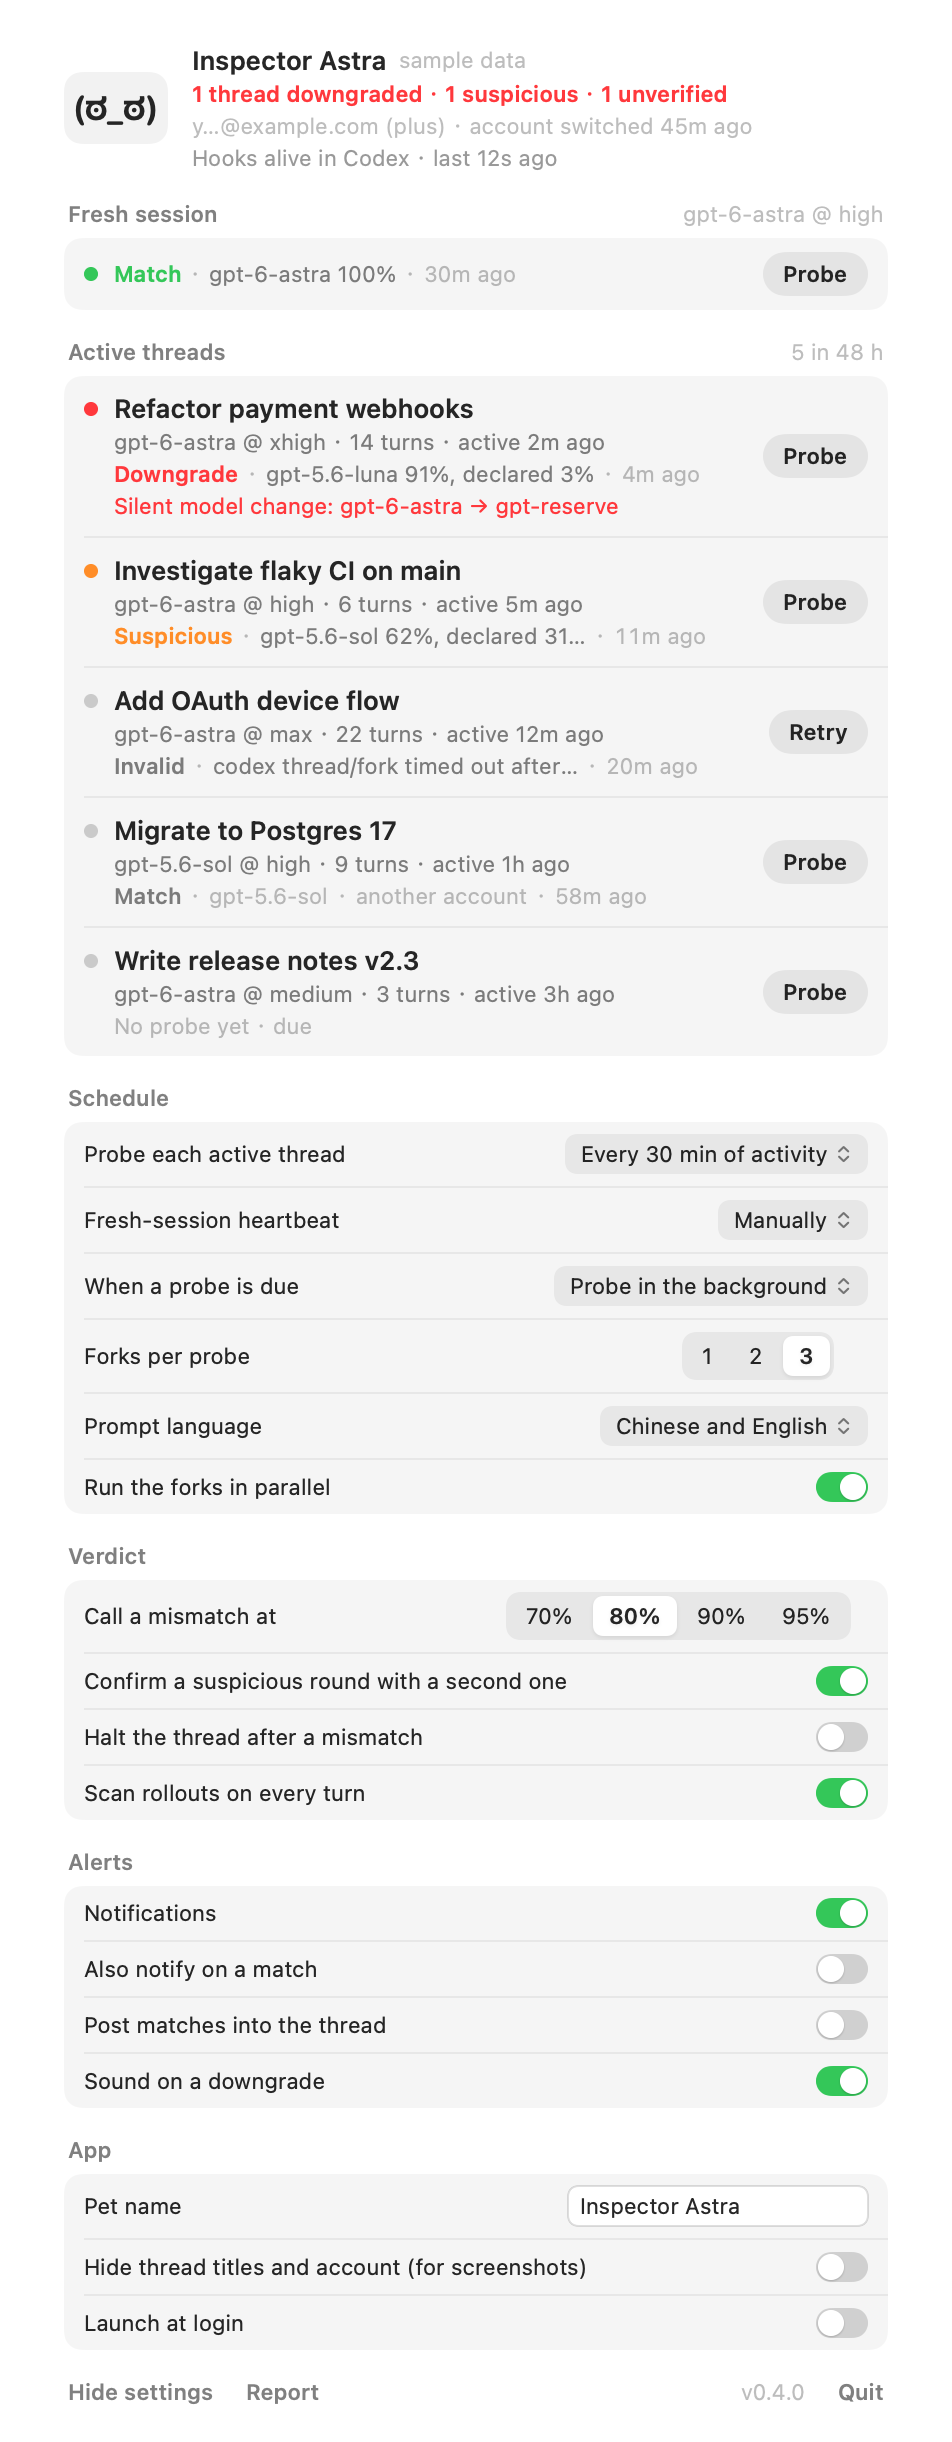
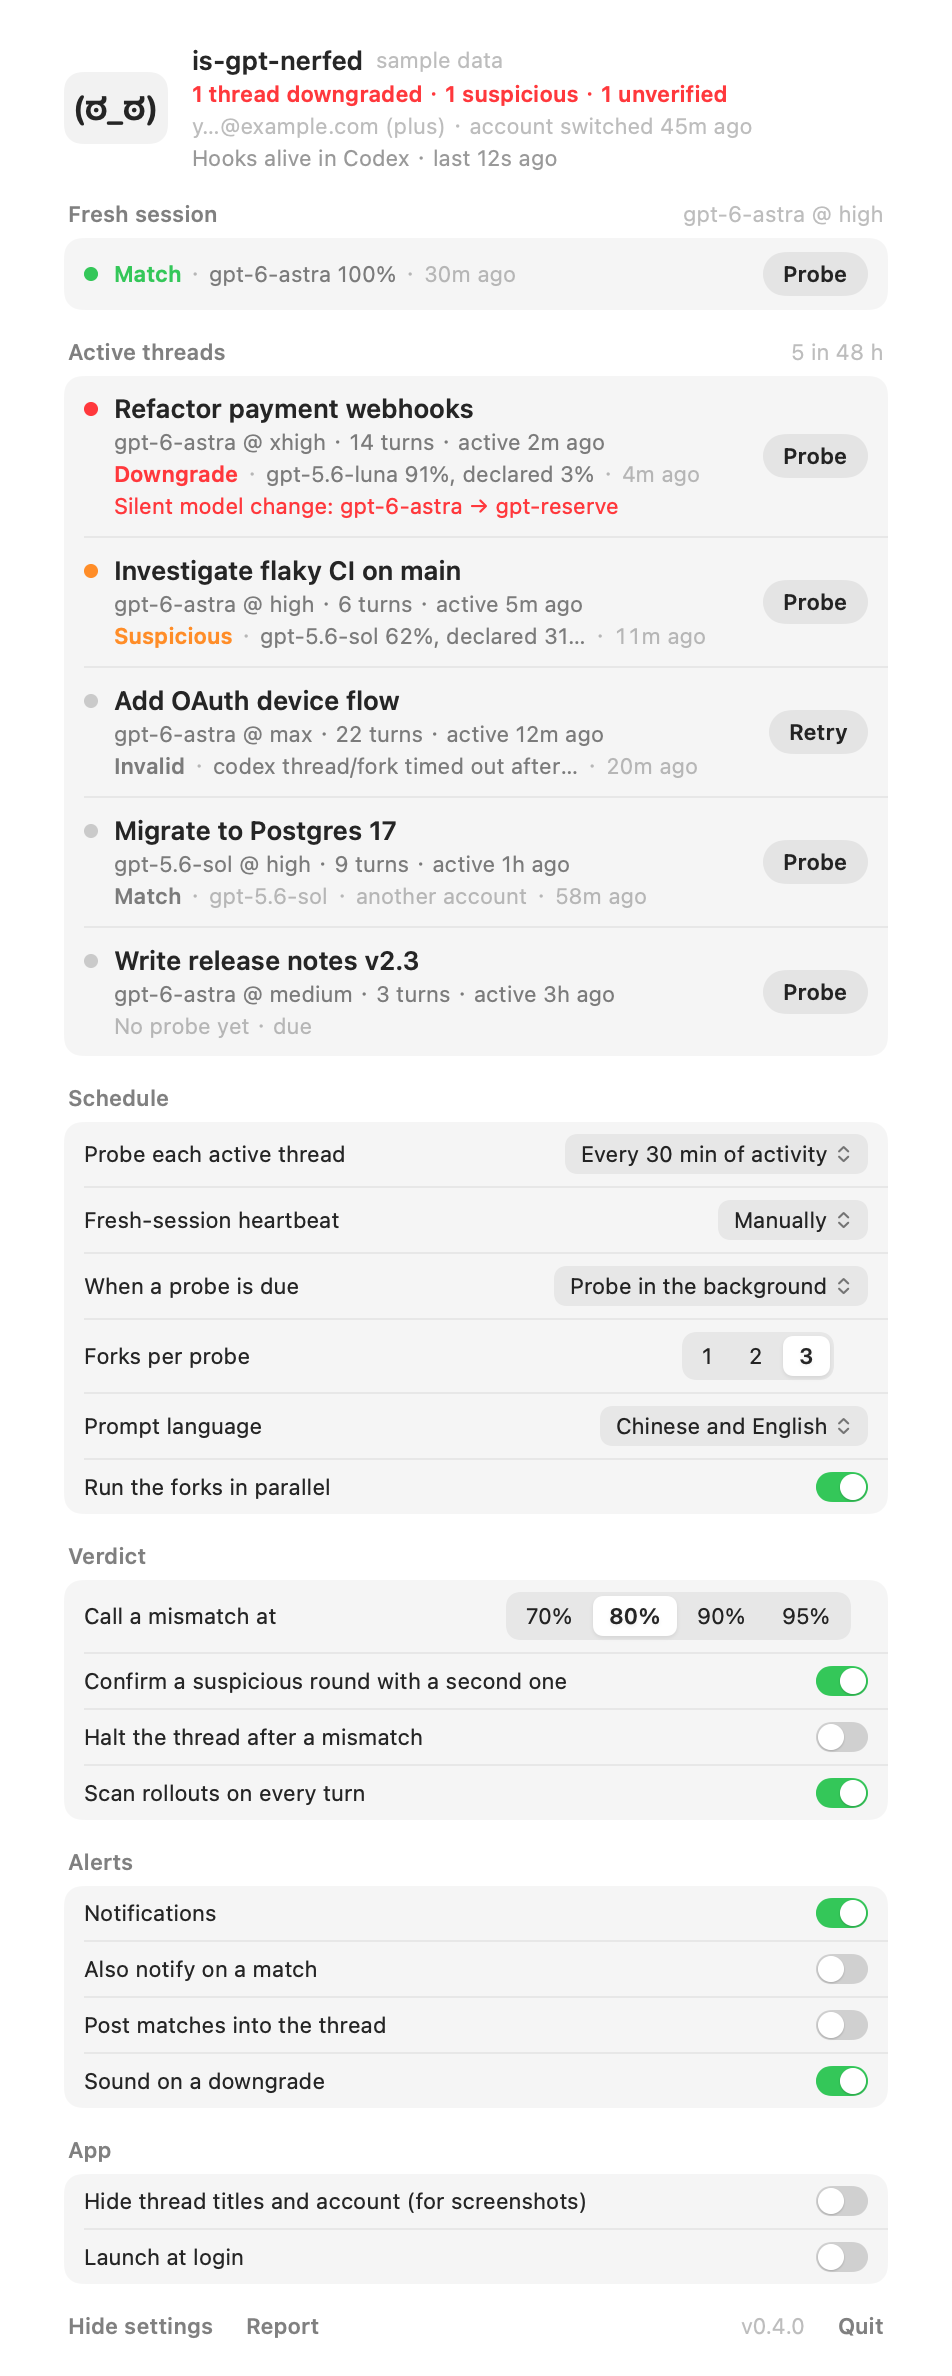
Remove the pet name: no persona to name in the app; cards, notifications and thread messages are signed is-gpt-nerfed

diff --git a/macos/Sources/IsGPTNerfed/SettingsView.swift b/macos/Sources/IsGPTNerfed/SettingsView.swift
@@ -4,7 +4,6 @@ import SwiftUI
 struct SettingsView: View {
     @Environment(Store.self) private var store
     @Environment(\.plainRendering) private var plain
-    @State private var petName = ""
 
     private let frequencies: [(String, String)] = [
         ("manual", "Manually"), ("turns:4", "Every 4 turns"), ("turns:8", "Every 8 turns"), ("turns:16", "Every 16 turns"),
@@ -60,16 +59,6 @@ struct SettingsView: View {
                 row("Sound on a downgrade") { toggle("sound", cfg?.sound ?? true) }
             }
             Group(title: "App") {
-                row("Pet name") {
-                    if plain {
-                        PlainField(text: cfg?.petName ?? "Inspector Astra")
-                    } else {
-                        TextField("Inspector Astra", text: $petName)
-                            .textFieldStyle(.roundedBorder).controlSize(.small).frame(width: 150)
-                            .onSubmit { Task { await store.setConfig("pet_name", petName) } }
-                    }
-                }
-                RowSeparator()
                 row("Hide thread titles and account (for screenshots)") { toggle("hide_titles", cfg?.hideTitles ?? false) }
                 RowSeparator()
                 row("Launch at login") {
@@ -82,8 +71,6 @@ struct SettingsView: View {
                 }
             }
         }
-        .onAppear { petName = store.snapshot?.config.petName ?? "" }
-        .onChange(of: store.snapshot?.config.petName) { _, new in if let new, !new.isEmpty { petName = new } }
     }
 
     // MARK: building blocks

diff --git a/macos/Sources/IsGPTNerfed/PanelView.swift b/macos/Sources/IsGPTNerfed/PanelView.swift
@@ -123,7 +123,7 @@ struct PanelView: View {
                 .background(Color.primary.opacity(0.06), in: RoundedRectangle(cornerRadius: 9, style: .continuous))
             VStack(alignment: .leading, spacing: 2) {
                 HStack(spacing: 6) {
-                    Text(store.snapshot?.config.petName ?? "Inspector Astra").font(Type.title)
+                    Text("is-gpt-nerfed").font(Type.title)
                     if store.snapshot?.demo == true { Text("sample data").font(Type.text).foregroundStyle(.tertiary) }
                 }
                 Text(statusWord)

diff --git a/macos/Sources/IsGPTNerfed/App.swift b/macos/Sources/IsGPTNerfed/App.swift
@@ -38,7 +38,7 @@ final class AppDelegate: NSObject, NSApplicationDelegate {
         if args.contains("--preview") {
             let hosting = NSHostingController(rootView: PanelView().environment(Store.shared))
             let window = NSWindow(contentViewController: hosting)
-            window.title = "Inspector Astra"
+            window.title = "is-gpt-nerfed"
             window.styleMask = [.titled, .closable]
             window.setFrameOrigin(NSPoint(x: 80, y: 120))
             window.makeKeyAndOrderFront(nil)

diff --git a/macos/Sources/IsGPTNerfed/Models.swift b/macos/Sources/IsGPTNerfed/Models.swift
@@ -82,7 +82,6 @@ struct DGCConfig: Codable {
     var confirmUncertain: Bool?
     var hideTitles: Bool?
     var freshFrequency: String?
-    var petName: String
 }
 
 struct ThreadInfo: Codable, Identifiable {

diff --git a/plugin/skills/is-gpt-nerfed/SKILL.md b/plugin/skills/is-gpt-nerfed/SKILL.md
@@ -23,7 +23,7 @@ metadata:
 
 ## Relaying verdicts and halts
 
-- When hook context from is-gpt-nerfed says "tell the user verbatim", say it first, as Inspector Astra, then continue.
+- When hook context from is-gpt-nerfed says "tell the user verbatim", say it first, verbatim, then continue.
 - If tools are being denied because `halt_on_mismatch` is on, stop working, summarise the verdict, and wait. Only run `<nerfed> resume --thread <id>` after the user explicitly asks to continue.
 - Useful for the user: `<nerfed> report`, `<nerfed> explain <probe-id>`, `<nerfed> explain --method`, `<nerfed> config set frequency turns:8|30m|manual`, `<nerfed> config set halt_on_mismatch true`.
 
@@ -31,4 +31,4 @@ metadata:
 
 - One probe at a time; do not rerun to get a nicer verdict.
 - Do not edit files under `~/.codex/is-gpt-nerfed/`.
-- Do not grade or interpret the numbers yourself; the script's verdict is the only verdict. Do not argue with Inspector Astra.
+- Do not grade or interpret the numbers yourself; the script's verdict is the only verdict; do not argue with it.

diff --git a/docs/DEVELOPMENT.md b/docs/DEVELOPMENT.md
@@ -93,7 +93,6 @@ The app also logs to the unified log (Console.app, subsystem `is-gpt-nerfed`).
 | `confirm_uncertain` | `true` | second round when Suspicious |
 | `busy_wait_s` | `600` | how long to wait for a live turn |
 | `hide_titles` | `false` | screenshot mode |
-| `pet_name` | `Inspector Astra` | the persona's name |
 | `codex_bin` | auto | path to the codex binary (found on PATH or inside the ChatGPT/Codex app) |
 
 ## Release
@@ -114,4 +113,4 @@ git marketplace (`codex plugin marketplace add kiyoakii/is-gpt-nerfed`, `codex p
   `nerfed doctor --fork` proves the fork path against the installed Codex with zero inference.
 
 Contributions welcome: detection signals, bank updates from upstream ModelTrace (keep `provenance.json` honest),
-Windows/Linux, translations of Inspector Astra's lines. Keep the panel to its two type sizes and no icons.
+Windows/Linux, translations of the verdict lines. Keep the panel to its two type sizes and no icons.
